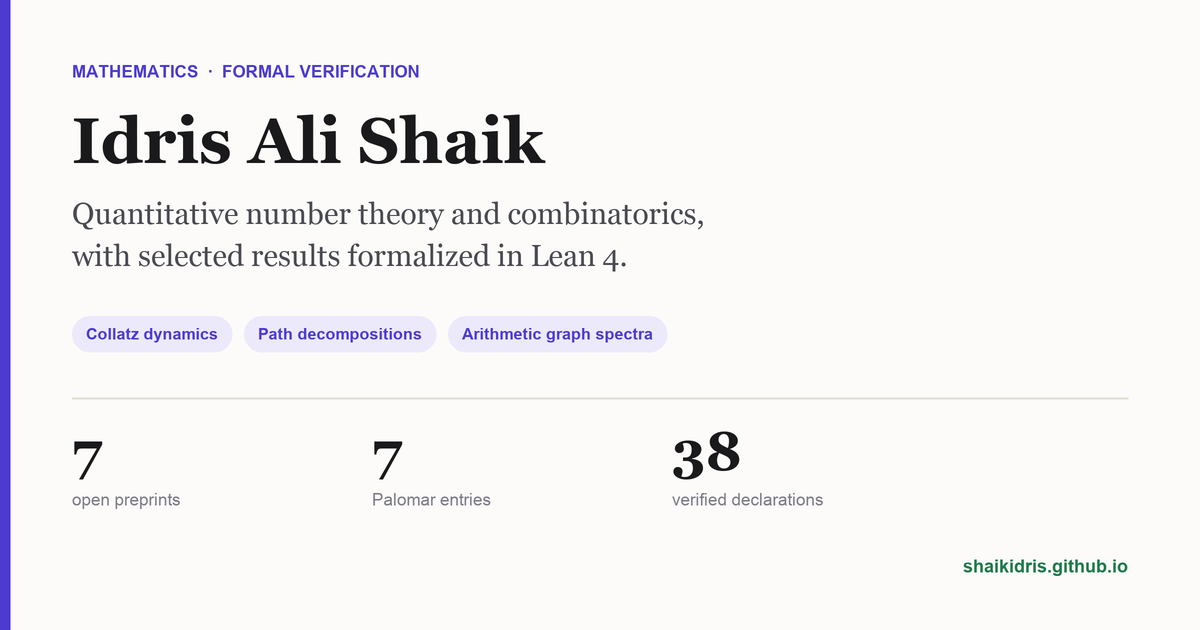
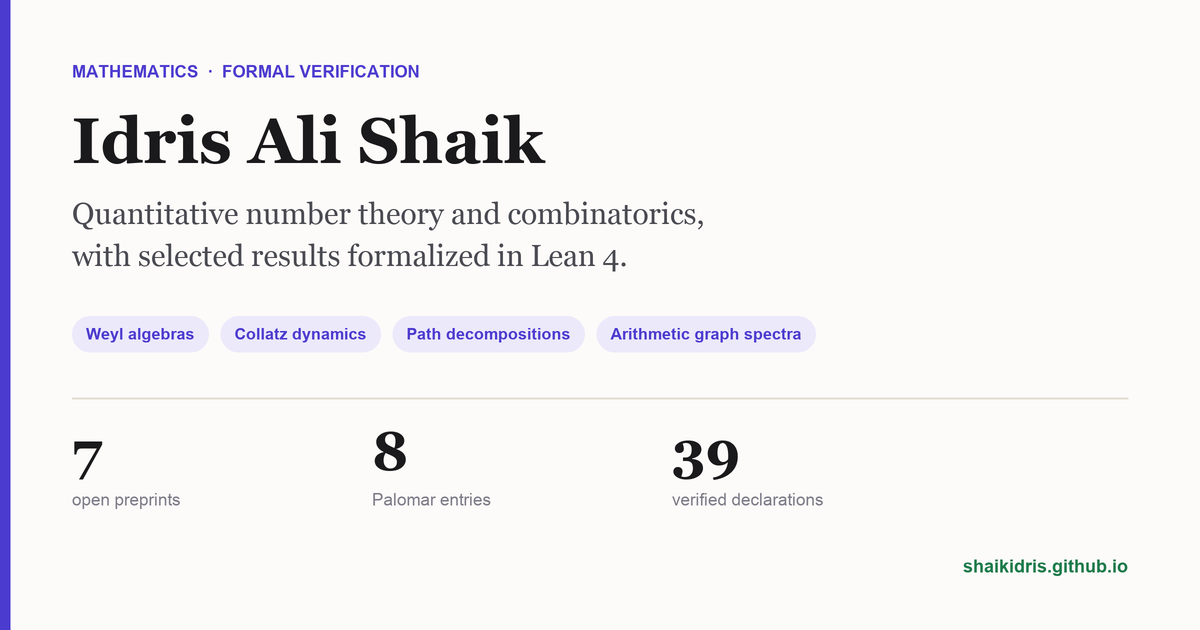
Add Dixmier mass-six record and explicit Palomar links

Changed region(s): [[0.0617, 0.5127, 0.6783, 0.5429], [0.5858, 0.6635, 0.6167, 0.754], [0.3083, 0.6635, 0.3392, 0.754]]

diff --git a/index.html b/index.html
@@ -5,7 +5,7 @@
 <meta name="viewport" content="width=device-width, initial-scale=1">
 <!-- Generated by scripts/build_home.py from data/works.json. Edit those, not this file. -->
 <title>Idris Ali Shaik — Mathematics research, preprints and Lean formalizations</title>
-<meta name="description" content="Idris Ali Shaik: 7 open preprints in quantitative number theory and graph theory — Collatz dynamics in natural density, Gallai path decompositions, and arithmetic graph spectra — with selected results formalized in Lean 4 and registered on Palomar.">
+<meta name="description" content="Idris Ali Shaik: 7 open preprints in number theory, combinatorics and algebra — Collatz dynamics, Gallai path decompositions, arithmetic graph spectra and Weyl algebras — with selected results formalized in Lean 4 and registered on Palomar.">
 <link rel="canonical" href="https://shaikidris.github.io/">
 <meta name="author" content="Idris Ali Shaik">
 <meta name="robots" content="index, follow, max-image-preview:large, max-snippet:-1">
@@ -13,19 +13,19 @@
 <meta property="og:type" content="profile">
 <meta property="og:site_name" content="Idris Ali Shaik — Mathematics">
 <meta property="og:title" content="Idris Ali Shaik — Mathematics research">
-<meta property="og:description" content="Idris Ali Shaik: 7 open preprints in quantitative number theory and graph theory — Collatz dynamics in natural density, Gallai path decompositions, and arithmetic graph spectra — with selected results formalized in Lean 4 and registered on Palomar.">
+<meta property="og:description" content="Idris Ali Shaik: 7 open preprints in number theory, combinatorics and algebra — Collatz dynamics, Gallai path decompositions, arithmetic graph spectra and Weyl algebras — with selected results formalized in Lean 4 and registered on Palomar.">
 <meta property="og:url" content="https://shaikidris.github.io/">
-<meta property="og:image" content="https://shaikidris.github.io/assets/og-home.png?v=20261004-hub4">
+<meta property="og:image" content="https://shaikidris.github.io/assets/og-home.png?v=20261005-hub1">
 <meta property="og:image:width" content="1200">
 <meta property="og:image:height" content="630">
 <meta name="twitter:card" content="summary_large_image">
 <meta name="twitter:title" content="Idris Ali Shaik — Mathematics research">
-<meta name="twitter:description" content="Idris Ali Shaik: 7 open preprints in quantitative number theory and graph theory — Collatz dynamics in natural density, Gallai path decompositions, and arithmetic graph spectra — with selected results formalized in Lean 4 and registered on Palomar.">
-<meta name="twitter:image" content="https://shaikidris.github.io/assets/og-home.png?v=20261004-hub4">
+<meta name="twitter:description" content="Idris Ali Shaik: 7 open preprints in number theory, combinatorics and algebra — Collatz dynamics, Gallai path decompositions, arithmetic graph spectra and Weyl algebras — with selected results formalized in Lean 4 and registered on Palomar.">
+<meta name="twitter:image" content="https://shaikidris.github.io/assets/og-home.png?v=20261005-hub1">
 
 <link rel="icon" href="/assets/favicon.svg" type="image/svg+xml">
-<link rel="stylesheet" href="/assets/site.css?v=20261004-hub4">
-<link rel="stylesheet" href="/assets/home.css?v=20261004-hub4">
+<link rel="stylesheet" href="/assets/site.css?v=20261005-hub1">
+<link rel="stylesheet" href="/assets/home.css?v=20261005-hub1">
 
 <script type="application/ld+json">
 {
@@ -51,6 +51,20 @@
     "position": 1,
     "item": {
      "@type": "ScholarlyArticle",
+     "name": "The rank-one Dixmier conjecture for elements of mass at most six",
+     "abstract": "Over any characteristic-zero field, P and Q in the first Weyl algebra with QP − PQ = 1 generate the algebra when P has at most six nonzero homogeneous components for deg X = 1 and deg Y = −1. No degree, order or mass bound is imposed on Q.",
+     "author": {
+      "@type": "Person",
+      "name": "Idris Ali Shaik"
+     },
+     "url": "https://palomar-registry.org/entry?id=PALOMAR-2026-10-05-000006&version=2"
+    }
+   },
+   {
+    "@type": "ListItem",
+    "position": 2,
+    "item": {
+     "@type": "ScholarlyArticle",
      "name": "Polylogarithmic Descent for Almost All Collatz Orbits in Natural Density",
      "abstract": "For any f(n) → ∞, almost every n in natural density reaches an iterate below (log n)^A_FP · f(n) after c* log n + O(√(log n log log n)) shortcut steps, with an explicit exponent A_FP ≈ 9.9911.",
      "author": {
@@ -70,7 +84,7 @@
    },
    {
     "@type": "ListItem",
-    "position": 2,
+    "position": 3,
     "item": {
      "@type": "ScholarlyArticle",
      "name": "Quantitative Endpoint Transport for the Collatz Map with a Natural-Density Descent Application",
@@ -92,7 +106,7 @@
    },
    {
     "@type": "ListItem",
-    "position": 3,
+    "position": 4,
     "item": {
      "@type": "ScholarlyArticle",
      "name": "Positive density of Collatz convergence at every rate above 3/log(4/3)",
@@ -114,7 +128,7 @@
    },
    {
     "@type": "ListItem",
-    "position": 4,
+    "position": 5,
     "item": {
      "@type": "ScholarlyArticle",
      "name": "Gallai's conjecture with two exceptional even vertices",
@@ -126,17 +140,17 @@
      "identifier": {
       "@type": "PropertyValue",
       "propertyID": "DOI",
-      "value": "10.5281/zenodo.23134427"
+      "value": "10.5281/zenodo.23141299"
      },
-     "url": "https://doi.org/10.5281/zenodo.23134427",
+     "url": "https://doi.org/10.5281/zenodo.23141299",
      "datePublished": "2026-10-04",
-     "version": "1.0.0",
+     "version": "1.1.0",
      "license": "https://creativecommons.org/licenses/by/4.0/"
     }
    },
    {
     "@type": "ListItem",
-    "position": 5,
+    "position": 6,
     "item": {
      "@type": "ScholarlyArticle",
      "name": "Gallai's Path Decomposition Conjecture for Graphs with Small Bowtie Boundaries",
@@ -158,7 +172,7 @@
    },
    {
     "@type": "ListItem",
-    "position": 6,
+    "position": 7,
     "item": {
      "@type": "ScholarlyArticle",
      "name": "Prime-Star Localization and Second-Order Spectra of Finite Divisibility Cover Graphs",
@@ -180,7 +194,7 @@
    },
    {
     "@type": "ListItem",
-    "position": 7,
+    "position": 8,
     "item": {
      "@type": "ScholarlyArticle",
      "name": "Prescribed Eigenvalues in Power Bands of Finite Prime-Cover Graphs",
@@ -240,7 +254,8 @@
     <p class="tagline">
       Independent researcher working in quantitative number theory and combinatorics.
       Progress on the <strong>Collatz conjecture</strong> and proved cases of
-      <strong>Gallai’s path-decomposition conjecture</strong>, alongside arithmetic graph spectra.
+      <strong>Gallai’s path-decomposition conjecture</strong> and the
+      <strong>rank-one Dixmier conjecture</strong>, alongside arithmetic graph spectra.
       Full Lean&nbsp;4 formalization projects submitted to <strong>Palomar</strong>;
       each registered entry specifies the declarations it verifies.
     </p>
@@ -248,13 +263,14 @@
       <a class="btn btn-primary" href="#research">Browse the research</a>
       <a class="btn" href="https://orcid.org/0009-0009-9699-9712" rel="noopener me">ORCID</a>
       <a class="btn" href="https://www.linkedin.com/in/shaikidris/" rel="noopener me">LinkedIn</a>
+      <a class="btn" href="https://palomar-registry.org/" rel="noopener">Palomar registry</a>
       <a class="btn" href="https://github.com/shaikidris" rel="noopener me">GitHub</a>
       <a class="btn" href="https://zenodo.org/search?q=metadata.creators.person_or_org.identifiers.identifier%3A%220009-0009-9699-9712%22" rel="noopener">All records on Zenodo</a>
     </div>
     <dl class="stats">
       <div><dt>Open preprints</dt><dd>7</dd></div>
-      <div><dt>Palomar entries</dt><dd>7</dd></div>
-      <div><dt>Registered declarations</dt><dd>38</dd></div>
+      <div><dt>Palomar entries</dt><dd>8</dd></div>
+      <div><dt>Registered declarations</dt><dd>39</dd></div>
       <div><dt>Interactive explainers</dt><dd>2</dd></div>
     </dl>
   </div>
@@ -267,7 +283,7 @@
         <h2>Research</h2>
       </div>
       <div class="filters" role="group" aria-label="Filter by area">
-        <button type="button" class="chip-btn" data-filter="all" aria-pressed="true">All</button><button type="button" class="chip-btn" data-filter="collatz" aria-pressed="false">Collatz dynamics</button><button type="button" class="chip-btn" data-filter="gallai" aria-pressed="false">Path decompositions</button><button type="button" class="chip-btn" data-filter="spectra" aria-pressed="false">Arithmetic graph spectra</button>
+        <button type="button" class="chip-btn" data-filter="all" aria-pressed="true">All</button><button type="button" class="chip-btn" data-filter="algebra" aria-pressed="false">Weyl algebras</button><button type="button" class="chip-btn" data-filter="collatz" aria-pressed="false">Collatz dynamics</button><button type="button" class="chip-btn" data-filter="gallai" aria-pressed="false">Path decompositions</button><button type="button" class="chip-btn" data-filter="spectra" aria-pressed="false">Arithmetic graph spectra</button>
       </div>
     </div>
 
@@ -278,6 +294,22 @@
       <th scope="col">Result</th><th scope="col">Preprint</th>
       <th scope="col">Formal verification</th><th scope="col">Explore</th>
     </tr></thead>
+    <tbody data-area="algebra">
+      <tr class="group"><th colspan="4" scope="rowgroup">
+        <span class="gname">Weyl algebras</span>
+        <span class="gblurb">The rank-one Dixmier conjecture under a bound on homogeneous mass.</span>
+      </th></tr>
+      <tr data-area="algebra">
+        <td data-label="Result" class="c-result">
+          <span class="wtitle">The rank-one Dixmier conjecture for elements of mass at most six</span>
+          <span class="summary">Over any characteristic-zero field, P and Q in the first Weyl algebra with QP − PQ = 1 generate the algebra when P has at most six nonzero homogeneous components for deg X = 1 and deg Y = −1. No degree, order or mass bound is imposed on Q.</span>
+          <span class="chips"><span class="chip">16S32</span><span class="chip">16W20</span><span class="chip">16W50</span></span>
+        </td>
+        <td data-label="Preprint" class="c-pre"><span class="none">Not yet released</span></td>
+        <td data-label="Formal verification" class="c-formal"><a class="palomar" href="https://palomar-registry.org/entry?id=PALOMAR-2026-10-05-000006&version=2" rel="noopener" data-goatcounter-click="hub-palomar-dixmier-mass-six"><span class="pid">View on Palomar · 2026-10-05-000006</span><span class="pv">v2</span></a><span class="trust">high trust · 1 declaration</span><span class="sub repos"><a href="https://github.com/shaikidris/DixmierMassSix-Palomar" rel="noopener">DixmierMassSix-Palomar</a></span></td>
+        <td data-label="Explore" class="c-explore"><span class="none">—</span></td>
+      </tr>
+    </tbody>
     <tbody data-area="collatz">
       <tr class="group"><th colspan="4" scope="rowgroup">
         <span class="gname">Collatz dynamics</span>
@@ -290,7 +322,7 @@
           <span class="chips"><span class="chip">11B83</span><span class="chip">37P99</span><span class="chip">60G40</span></span>
         </td>
         <td data-label="Preprint" class="c-pre"><span class="ver">v4.0.2</span><span class="date">2026-10-04</span><a class="doi" href="https://doi.org/10.5281/zenodo.23132901" rel="noopener" data-goatcounter-click="hub-doi-polylog">10.5281/zenodo.23132901</a><span class="sub">Zenodo · CC BY 4.0 · <a href="https://doi.org/10.2139/ssrn.7290240" rel="noopener">SSRN</a></span></td>
-        <td data-label="Formal verification" class="c-formal"><a class="palomar" href="https://palomar-registry.org/entry?id=PALOMAR-2026-08-26-000005&version=4" rel="noopener" data-goatcounter-click="hub-palomar-polylog"><span class="pid">2026-08-26-000005</span><span class="pv">v4</span></a><span class="trust">high trust · 4 declarations</span><span class="sub repos"><a href="https://github.com/shaikidris/FirstPassageLinearTransport" rel="noopener">FirstPassageLinearTransport</a> · <a href="https://github.com/shaikidris/FirstPassageLinearTransport-Palomar" rel="noopener">FirstPassageLinearTransport-Palomar</a></span><span class="sub">Lean archive <a href="https://doi.org/10.5281/zenodo.23043600" rel="noopener">23043600</a></span></td>
+        <td data-label="Formal verification" class="c-formal"><a class="palomar" href="https://palomar-registry.org/entry?id=PALOMAR-2026-08-26-000005&version=4" rel="noopener" data-goatcounter-click="hub-palomar-polylog"><span class="pid">View on Palomar · 2026-08-26-000005</span><span class="pv">v4</span></a><span class="trust">high trust · 4 declarations</span><span class="sub repos"><a href="https://github.com/shaikidris/FirstPassageLinearTransport" rel="noopener">FirstPassageLinearTransport</a> · <a href="https://github.com/shaikidris/FirstPassageLinearTransport-Palomar" rel="noopener">FirstPassageLinearTransport-Palomar</a></span><span class="sub">Lean archive <a href="https://doi.org/10.5281/zenodo.23043600" rel="noopener">23043600</a></span></td>
         <td data-label="Explore" class="c-explore"><a class="btn btn-sm" href="/polylog/" data-goatcounter-click="hub-explainer-polylog">Interactive explainer</a><span class="sub">written for v3.2.4</span><a class="sub" href="/code/">Theorem → Lean map</a></td>
       </tr>
       <tr data-area="collatz">
@@ -300,7 +332,7 @@
           <span class="chips"><span class="chip">11B83</span><span class="chip">37P99</span><span class="chip">60F10</span></span>
         </td>
         <td data-label="Preprint" class="c-pre"><span class="ver">v2.2.0</span><span class="date">2026-09-06</span><a class="doi" href="https://doi.org/10.5281/zenodo.22544006" rel="noopener" data-goatcounter-click="hub-doi-cet">10.5281/zenodo.22544006</a><span class="sub">Zenodo · CC BY 4.0 · <a href="https://doi.org/10.2139/ssrn.7341398" rel="noopener">SSRN</a></span></td>
-        <td data-label="Formal verification" class="c-formal"><a class="palomar" href="https://palomar-registry.org/entry?id=PALOMAR-2026-08-27-000018&version=3" rel="noopener" data-goatcounter-click="hub-palomar-cet"><span class="pid">2026-08-27-000018</span><span class="pv">v3</span></a><span class="trust">high trust · 1 declaration</span><span class="sub repos"><a href="https://github.com/shaikidris/CET" rel="noopener">CET</a> · <a href="https://github.com/shaikidris/CollatzEndpointTransport-Palomar" rel="noopener">CollatzEndpointTransport-Palomar</a></span><span class="sub">Lean archive <a href="https://doi.org/10.5281/zenodo.22544010" rel="noopener">22544010</a></span></td>
+        <td data-label="Formal verification" class="c-formal"><a class="palomar" href="https://palomar-registry.org/entry?id=PALOMAR-2026-08-27-000018&version=3" rel="noopener" data-goatcounter-click="hub-palomar-cet"><span class="pid">View on Palomar · 2026-08-27-000018</span><span class="pv">v3</span></a><span class="trust">high trust · 1 declaration</span><span class="sub repos"><a href="https://github.com/shaikidris/CET" rel="noopener">CET</a> · <a href="https://github.com/shaikidris/CollatzEndpointTransport-Palomar" rel="noopener">CollatzEndpointTransport-Palomar</a></span><span class="sub">Lean archive <a href="https://doi.org/10.5281/zenodo.22544010" rel="noopener">22544010</a></span></td>
         <td data-label="Explore" class="c-explore"><a class="btn btn-sm" href="/cet/" data-goatcounter-click="hub-explainer-cet">Interactive explainer</a><span class="sub">written for v2.0.3</span><a class="sub" href="/cet/code/">Theorem → Lean map</a></td>
       </tr>
       <tr data-area="collatz">
@@ -310,7 +342,7 @@
           <span class="chips"><span class="chip">11B83</span><span class="chip">37P99</span></span>
         </td>
         <td data-label="Preprint" class="c-pre"><span class="ver">v1.0.0</span><span class="date">2026-09-21</span><a class="doi" href="https://doi.org/10.5281/zenodo.22871622" rel="noopener" data-goatcounter-click="hub-doi-positive-density">10.5281/zenodo.22871622</a><span class="sub">Zenodo · CC BY 4.0 · <a href="https://doi.org/10.2139/ssrn.7497758" rel="noopener">SSRN</a></span></td>
-        <td data-label="Formal verification" class="c-formal"><a class="palomar" href="https://palomar-registry.org/entry?id=PALOMAR-2026-09-23-000002&version=1" rel="noopener" data-goatcounter-click="hub-palomar-positive-density"><span class="pid">2026-09-23-000002</span><span class="pv">v1</span></a><span class="trust">high trust · 18 declarations</span><span class="sub repos"><a href="https://github.com/shaikidris/CollatzConvergencePositiveDensity" rel="noopener">CollatzConvergencePositiveDensity</a></span></td>
+        <td data-label="Formal verification" class="c-formal"><a class="palomar" href="https://palomar-registry.org/entry?id=PALOMAR-2026-09-23-000002&version=1" rel="noopener" data-goatcounter-click="hub-palomar-positive-density"><span class="pid">View on Palomar · 2026-09-23-000002</span><span class="pv">v1</span></a><span class="trust">high trust · 18 declarations</span><span class="sub repos"><a href="https://github.com/shaikidris/CollatzConvergencePositiveDensity" rel="noopener">CollatzConvergencePositiveDensity</a></span></td>
         <td data-label="Explore" class="c-explore"><span class="none">—</span></td>
       </tr>
     </tbody>
@@ -321,12 +353,12 @@
       </th></tr>
       <tr data-area="gallai">
         <td data-label="Result" class="c-result">
-          <span class="wtitle"><a href="https://doi.org/10.5281/zenodo.23134427" rel="noopener" data-goatcounter-click="hub-title-gallai-two">Gallai&#x27;s conjecture with two exceptional even vertices</a></span>
+          <span class="wtitle"><a href="https://doi.org/10.5281/zenodo.23141299" rel="noopener" data-goatcounter-click="hub-title-gallai-two">Gallai&#x27;s conjecture with two exceptional even vertices</a></span>
           <span class="summary">Extends the endpoint form of Gallai&#x27;s conjecture to two designated even vertices that need not be adjacent, when every other even vertex has at most three even neighbours.</span>
           <span class="chips"><span class="chip">05C38</span><span class="chip">05C70</span></span>
         </td>
-        <td data-label="Preprint" class="c-pre"><span class="ver">v1.0.0</span><span class="date">2026-10-04</span><a class="doi" href="https://doi.org/10.5281/zenodo.23134427" rel="noopener" data-goatcounter-click="hub-doi-gallai-two">10.5281/zenodo.23134427</a><span class="sub">Zenodo · CC BY 4.0</span></td>
-        <td data-label="Formal verification" class="c-formal"><a class="palomar" href="https://palomar-registry.org/entry?id=PALOMAR-2026-10-04-000006&version=1" rel="noopener" data-goatcounter-click="hub-palomar-gallai-two"><span class="pid">2026-10-04-000006</span><span class="pv">v1</span></a><span class="trust">high trust · 4 declarations</span><span class="sub repos"><a href="https://github.com/shaikidris/gallai-two-exception" rel="noopener">gallai-two-exception</a></span></td>
+        <td data-label="Preprint" class="c-pre"><span class="ver">v1.1.0</span><span class="date">2026-10-04</span><a class="doi" href="https://doi.org/10.5281/zenodo.23141299" rel="noopener" data-goatcounter-click="hub-doi-gallai-two">10.5281/zenodo.23141299</a><span class="sub">Zenodo · CC BY 4.0</span></td>
+        <td data-label="Formal verification" class="c-formal"><a class="palomar" href="https://palomar-registry.org/entry?id=PALOMAR-2026-10-04-000006&version=1" rel="noopener" data-goatcounter-click="hub-palomar-gallai-two"><span class="pid">View on Palomar · 2026-10-04-000006</span><span class="pv">v1</span></a><span class="trust">high trust · 4 declarations</span><span class="sub repos"><a href="https://github.com/shaikidris/gallai-two-exception" rel="noopener">gallai-two-exception</a></span></td>
         <td data-label="Explore" class="c-explore"><span class="none">—</span></td>
       </tr>
       <tr data-area="gallai">
@@ -336,7 +368,7 @@
           <span class="chips"><span class="chip">05C38</span><span class="chip">05C70</span></span>
         </td>
         <td data-label="Preprint" class="c-pre"><span class="ver">v0.8</span><span class="date">2026-09-14</span><a class="doi" href="https://doi.org/10.5281/zenodo.22754815" rel="noopener" data-goatcounter-click="hub-doi-gallai-bowtie">10.5281/zenodo.22754815</a><span class="sub">Zenodo · CC BY 4.0 · <a href="https://doi.org/10.2139/ssrn.7453518" rel="noopener">SSRN</a></span></td>
-        <td data-label="Formal verification" class="c-formal"><a class="palomar" href="https://palomar-registry.org/entry?id=PALOMAR-2026-09-14-000005&version=1" rel="noopener" data-goatcounter-click="hub-palomar-gallai-bowtie"><span class="pid">2026-09-14-000005</span><span class="pv">v1</span></a><span class="trust">high trust · 6 declarations</span><span class="sub repos"><a href="https://github.com/shaikidris/gallai-bowtie-removal" rel="noopener">gallai-bowtie-removal</a></span><span class="sub">Lean archive <a href="https://doi.org/10.5281/zenodo.22733632" rel="noopener">22733632</a></span></td>
+        <td data-label="Formal verification" class="c-formal"><a class="palomar" href="https://palomar-registry.org/entry?id=PALOMAR-2026-09-14-000005&version=1" rel="noopener" data-goatcounter-click="hub-palomar-gallai-bowtie"><span class="pid">View on Palomar · 2026-09-14-000005</span><span class="pv">v1</span></a><span class="trust">high trust · 6 declarations</span><span class="sub repos"><a href="https://github.com/shaikidris/gallai-bowtie-removal" rel="noopener">gallai-bowtie-removal</a></span><span class="sub">Lean archive <a href="https://doi.org/10.5281/zenodo.22733632" rel="noopener">22733632</a></span></td>
         <td data-label="Explore" class="c-explore"><span class="none">—</span></td>
       </tr>
     </tbody>
@@ -352,7 +384,7 @@
           <span class="chips"><span class="chip">05C50</span><span class="chip">11N05</span></span>
         </td>
         <td data-label="Preprint" class="c-pre"><span class="ver">v1.1</span><span class="date">2026-08-29</span><a class="doi" href="https://doi.org/10.5281/zenodo.22163492" rel="noopener" data-goatcounter-click="hub-doi-prime-star">10.5281/zenodo.22163492</a><span class="sub">Zenodo · CC BY 4.0 · <a href="https://doi.org/10.2139/ssrn.7364645" rel="noopener">SSRN</a></span></td>
-        <td data-label="Formal verification" class="c-formal"><a class="palomar" href="https://palomar-registry.org/entry?id=PALOMAR-2026-08-29-000017&version=2" rel="noopener" data-goatcounter-click="hub-palomar-prime-star"><span class="pid">2026-08-29-000017</span><span class="pv">v2</span></a><span class="trust">high trust · 3 declarations</span><span class="sub repos"><a href="https://github.com/shaikidris/prime-star-spectra-formalization" rel="noopener">prime-star-spectra-formalization</a></span></td>
+        <td data-label="Formal verification" class="c-formal"><a class="palomar" href="https://palomar-registry.org/entry?id=PALOMAR-2026-08-29-000017&version=2" rel="noopener" data-goatcounter-click="hub-palomar-prime-star"><span class="pid">View on Palomar · 2026-08-29-000017</span><span class="pv">v2</span></a><span class="trust">high trust · 3 declarations</span><span class="sub repos"><a href="https://github.com/shaikidris/prime-star-spectra-formalization" rel="noopener">prime-star-spectra-formalization</a></span></td>
         <td data-label="Explore" class="c-explore"><span class="none">—</span></td>
       </tr>
       <tr data-area="spectra">
@@ -362,7 +394,7 @@
           <span class="chips"><span class="chip">05C50</span><span class="chip">11N05</span></span>
         </td>
         <td data-label="Preprint" class="c-pre"><span class="ver">v2026-09-19</span><span class="date">2026-09-19</span><a class="doi" href="https://doi.org/10.2139/ssrn.7441718" rel="noopener" data-goatcounter-click="hub-doi-prime-cover-band">10.2139/ssrn.7441718</a><span class="sub">SSRN · CC BY 4.0</span></td>
-        <td data-label="Formal verification" class="c-formal"><a class="palomar" href="https://palomar-registry.org/entry?id=PALOMAR-2026-09-10-000004&version=1" rel="noopener" data-goatcounter-click="hub-palomar-prime-cover-band"><span class="pid">2026-09-10-000004</span><span class="pv">v1</span></a><span class="trust">high trust · 2 declarations</span><span class="sub repos"><a href="https://github.com/shaikidris/prime-cover-power-band-spectra-palomar" rel="noopener">prime-cover-power-band-spectra-palomar</a></span></td>
+        <td data-label="Formal verification" class="c-formal"><a class="palomar" href="https://palomar-registry.org/entry?id=PALOMAR-2026-09-10-000004&version=1" rel="noopener" data-goatcounter-click="hub-palomar-prime-cover-band"><span class="pid">View on Palomar · 2026-09-10-000004</span><span class="pv">v1</span></a><span class="trust">high trust · 2 declarations</span><span class="sub repos"><a href="https://github.com/shaikidris/prime-cover-power-band-spectra-palomar" rel="noopener">prime-cover-power-band-spectra-palomar</a></span></td>
         <td data-label="Explore" class="c-explore"><span class="none">—</span></td>
       </tr>
     </tbody>
@@ -413,7 +445,8 @@
       <p><strong>Scope.</strong> The Collatz results are almost-all statements in natural density, or
       positive-density statements; none proves the Collatz conjecture or excludes exceptional cycles or
       divergent orbits. The path-decomposition results settle specific cases; Gallai's conjecture in
-      general remains open.</p>
+      general remains open. The Dixmier result covers mass at most six in the stated grading;
+      the general Dixmier conjecture remains open.</p>
     </div>
     <p><a href="https://palomar-registry.org/about" rel="noopener">About the Palomar registry →</a></p>
   </div>

diff --git a/scripts/build_home.py b/scripts/build_home.py
@@ -22,7 +22,7 @@ SITE = Path(__file__).resolve().parent.parent
 DATA = SITE / "data" / "works.json"
 OUT = SITE / "index.html"
 BASE = "https://shaikidris.github.io/"
-REV = "20261004-hub4"
+REV = "20261005-hub1"
 
 
 def esc(s: str) -> str:
@@ -71,7 +71,7 @@ def row(w: dict, owner: str) -> str:
     decl = pal["declarations"]
     formal = (f'<a class="palomar" href="{palomar_url(pal)}" rel="noopener" '
               f'data-goatcounter-click="hub-palomar-{w["id"]}">'
-              f'<span class="pid">{esc(pal["id"].replace("PALOMAR-", ""))}</span>'
+              f'<span class="pid">View on Palomar · {esc(pal["id"].replace("PALOMAR-", ""))}</span>'
               f'<span class="pv">v{pal["version"]}</span></a>'
               f'<span class="trust">{esc(pal["trust"])} trust · {decl} declaration{"s" if decl != 1 else ""}</span>'
               f'<span class="sub repos">{repos}</span>{sw_html}')
@@ -182,8 +182,8 @@ def page(d: dict) -> str:
     filters = "".join(
         f'<button type="button" class="chip-btn" data-filter="{esc(x["id"])}" aria-pressed="false">{esc(x["name"])}</button>'
         for x in d["areas"])
-    desc = (f"{a['name']}: {n_pre} open preprints in quantitative number theory and graph theory — "
-            f"Collatz dynamics in natural density, Gallai path decompositions, and arithmetic graph spectra — "
+    desc = (f"{a['name']}: {n_pre} open preprints in number theory, combinatorics and algebra — "
+            f"Collatz dynamics, Gallai path decompositions, arithmetic graph spectra and Weyl algebras — "
             f"with selected results formalized in Lean 4 and registered on Palomar.")
     orcid = f"https://orcid.org/{a['orcid']}"
     zenodo = ("https://zenodo.org/search?q=" +
@@ -257,7 +257,8 @@ def page(d: dict) -> str:
     <p class="tagline">
       {esc(a['affiliation'])} working in quantitative number theory and combinatorics.
       Progress on the <strong>Collatz conjecture</strong> and proved cases of
-      <strong>Gallai’s path-decomposition conjecture</strong>, alongside arithmetic graph spectra.
+      <strong>Gallai’s path-decomposition conjecture</strong> and the
+      <strong>rank-one Dixmier conjecture</strong>, alongside arithmetic graph spectra.
       Full Lean&nbsp;4 formalization projects submitted to <strong>Palomar</strong>;
       each registered entry specifies the declarations it verifies.
     </p>
@@ -265,6 +266,7 @@ def page(d: dict) -> str:
       <a class="btn btn-primary" href="#research">Browse the research</a>
       <a class="btn" href="{orcid}" rel="noopener me">ORCID</a>
       <a class="btn" href="https://www.linkedin.com/in/shaikidris/" rel="noopener me">LinkedIn</a>
+      <a class="btn" href="https://palomar-registry.org/" rel="noopener">Palomar registry</a>
       <a class="btn" href="https://github.com/{esc(a['github'])}" rel="noopener me">GitHub</a>
       <a class="btn" href="{zenodo}" rel="noopener">All records on Zenodo</a>
     </div>
@@ -321,7 +323,8 @@ def page(d: dict) -> str:
       <p><strong>Scope.</strong> The Collatz results are almost-all statements in natural density, or
       positive-density statements; none proves the Collatz conjecture or excludes exceptional cycles or
       divergent orbits. The path-decomposition results settle specific cases; Gallai's conjecture in
-      general remains open.</p>
+      general remains open. The Dixmier result covers mass at most six in the stated grading;
+      the general Dixmier conjecture remains open.</p>
     </div>
     <p><a href="https://palomar-registry.org/about" rel="noopener">About the Palomar registry →</a></p>
   </div>
